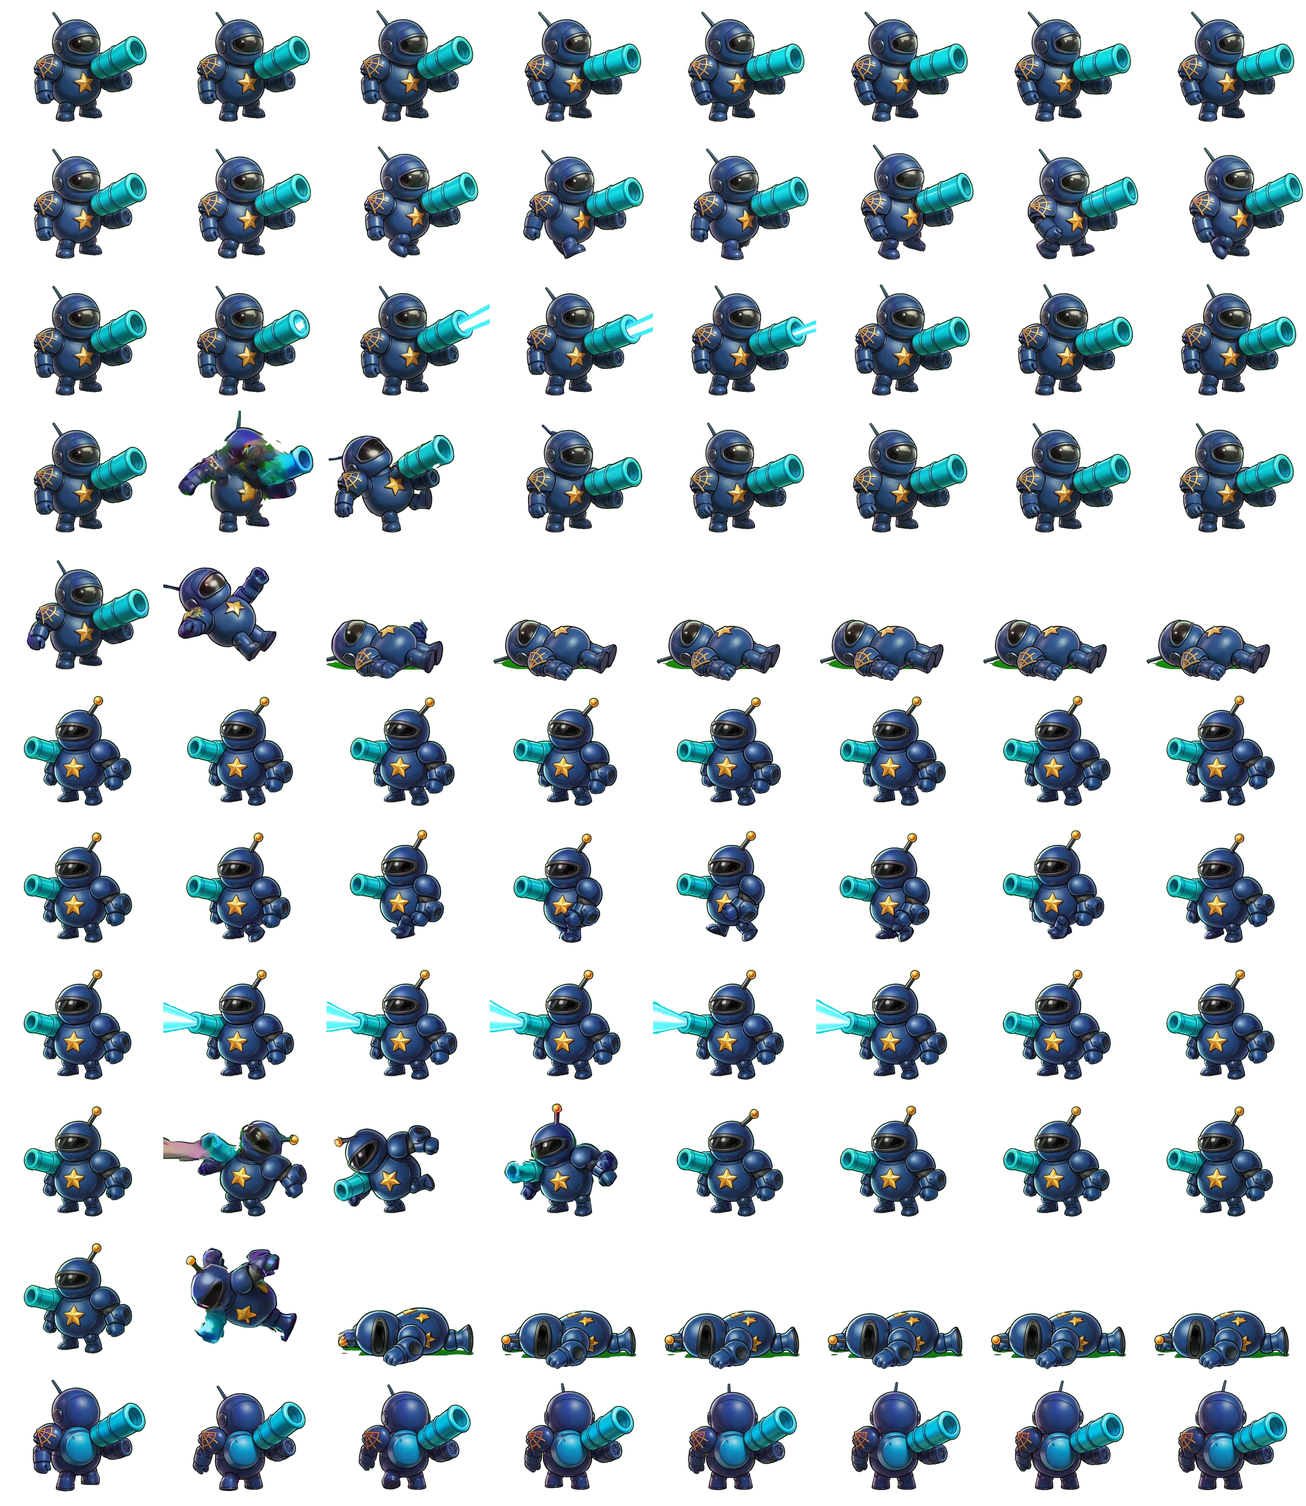
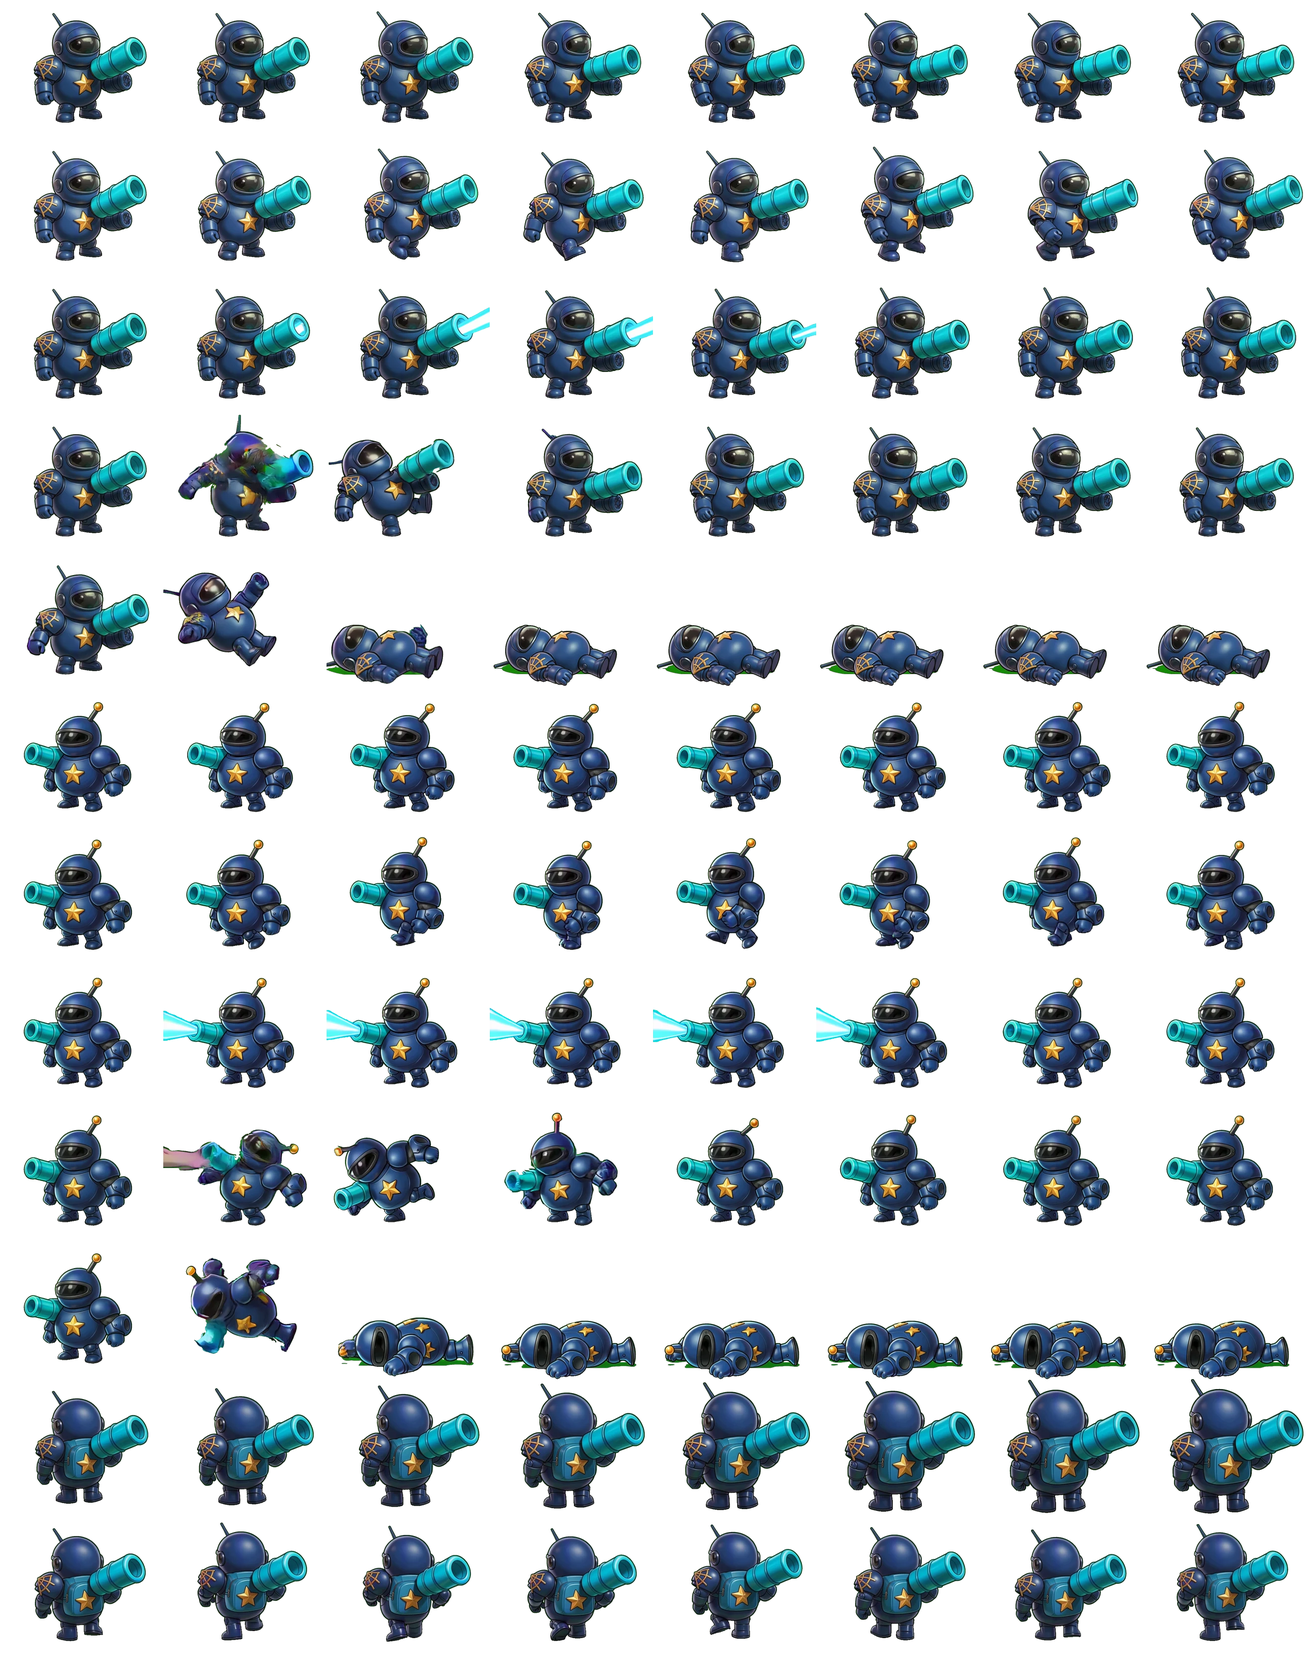
alfa 11c4f47: Rumble arte pintado: humo de la base animal y StarBot de espaldas quieto y andan

diff --git a/alfa/games/rumble/js/pintado/anim.js b/alfa/games/rumble/js/pintado/anim.js
@@ -3,4 +3,4 @@
 // n = fotogramas por animación, alto = píxeles que mide el personaje quieto, pies = [x, y] del apoyo en la celda
 // para cada lado, filas = qué animación es cada fila. animar.js pinta el fotograma que toca.
 'use strict';
-const V2_ANIM = {"bunny":{"celda":[253,242],"n":8,"alto":220,"pies":{"der":[124,233],"izq":[148,229],"esp":[117,236]},"filas":["der-quieto","der-andar","der-atacar","der-golpe","der-morir","izq-quieto","izq-andar","izq-atacar","izq-golpe","izq-morir","esp-quieto","esp-andar","esp-atacar","esp-golpe"]},"squirrel":{"celda":[269,259],"n":8,"alto":220,"pies":{"der":[120,248],"izq":[156,246],"esp":[124,245]},"filas":["der-quieto","der-andar","der-atacar","der-golpe","der-morir","izq-quieto","izq-andar","izq-atacar","izq-golpe","izq-morir","esp-quieto","esp-andar","esp-atacar","esp-golpe"]},"beaver":{"celda":[283,250],"n":8,"alto":220,"pies":{"der":[141,242],"izq":[136,242],"esp":[145,235]},"filas":["der-quieto","der-andar","der-atacar","der-golpe","der-morir","izq-quieto","izq-andar","izq-atacar","izq-golpe","izq-morir","esp-quieto","esp-andar","esp-atacar"]},"meercat":{"celda":[244,253],"n":8,"alto":220,"pies":{"der":[127,244],"izq":[136,245],"esp":[129,243]},"filas":["der-quieto","der-andar","der-atacar","der-golpe","der-morir","izq-quieto","izq-andar","izq-atacar","izq-golpe","izq-morir","esp-quieto","esp-andar","esp-atacar","esp-golpe"]},"junkcoon":{"celda":[275,260],"n":8,"alto":220,"pies":{"der":[135,249],"izq":[144,245],"esp":[134,248]},"filas":["der-quieto","der-andar","der-atacar","der-golpe","der-morir","izq-quieto","izq-andar","izq-atacar","izq-golpe","izq-morir","esp-quieto","esp-andar","esp-atacar","esp-golpe"]},"mechavaca":{"celda":[292,289],"n":8,"alto":220,"pies":{"der":[142,264],"izq":[153,266],"esp":[147,265]},"filas":["der-quieto","der-andar","der-atacar","der-golpe","der-morir","izq-quieto","izq-andar","izq-atacar","izq-golpe","izq-morir","esp-quieto","esp-andar","esp-atacar","esp-golpe"]},"vaca":{"celda":[318,274],"n":8,"alto":220,"pies":{"der":[161,257],"izq":[150,257],"esp":[158,258]},"filas":["der-quieto","der-andar","der-atacar","der-golpe","der-morir","izq-quieto","izq-andar","izq-atacar","izq-golpe","izq-morir","esp-quieto","esp-andar","esp-atacar","esp-golpe"]},"becario":{"celda":[266,260],"n":8,"alto":220,"pies":{"der":[144,242],"izq":[121,242],"esp":[140,242]},"filas":["der-quieto","der-andar","der-atacar","der-golpe","der-morir","izq-quieto","izq-andar","izq-atacar","izq-golpe","izq-morir","esp-quieto","esp-andar","esp-atacar","esp-golpe"]},"fox":{"celda":[282,248],"n":8,"alto":220,"pies":{"der":[122,231],"izq":[155,232]},"filas":["der-quieto","der-andar","der-atacar","der-golpe","der-morir","izq-quieto","izq-andar","izq-atacar","izq-golpe","izq-morir"]},"fallen":{"celda":[290,275],"n":8,"alto":220,"pies":{"der":[145,262],"izq":[133,264],"esp":[159,262]},"filas":["der-quieto","der-andar","der-atacar","der-golpe","der-morir","izq-quieto","izq-andar","izq-atacar","izq-golpe","izq-morir","esp-quieto","esp-andar","esp-atacar","esp-golpe"]},"starbot":{"celda":[328,275],"n":8,"alto":220,"pies":{"der":[181,244],"izq":[156,243],"esp":[179,245]},"filas":["der-quieto","der-andar","der-atacar","der-golpe","der-morir","izq-quieto","izq-andar","izq-atacar","izq-golpe","izq-morir","esp-quieto"]},"cajabotin":{"celda":[289,291],"n":8,"alto":220,"pies":{"der":[149,267],"izq":[153,272],"esp":[155,266]},"filas":["der-quieto","der-andar","der-atacar","der-golpe","der-morir","izq-quieto","izq-andar","izq-atacar","izq-golpe","izq-morir","esp-quieto","esp-andar","esp-atacar","esp-golpe"]},"huron":{"celda":[287,270],"n":8,"alto":220,"pies":{"der":[139,262],"izq":[126,260],"esp":[142,258]},"filas":["der-quieto","der-andar","der-atacar","der-golpe","der-morir","izq-quieto","izq-andar","izq-atacar","izq-golpe","izq-morir","esp-quieto","esp-andar","esp-atacar","esp-golpe"]}};
+const V2_ANIM = {"bunny":{"celda":[253,242],"n":8,"alto":220,"pies":{"der":[124,233],"izq":[148,229],"esp":[117,236]},"filas":["der-quieto","der-andar","der-atacar","der-golpe","der-morir","izq-quieto","izq-andar","izq-atacar","izq-golpe","izq-morir","esp-quieto","esp-andar","esp-atacar","esp-golpe"]},"squirrel":{"celda":[269,259],"n":8,"alto":220,"pies":{"der":[120,248],"izq":[156,246],"esp":[124,245]},"filas":["der-quieto","der-andar","der-atacar","der-golpe","der-morir","izq-quieto","izq-andar","izq-atacar","izq-golpe","izq-morir","esp-quieto","esp-andar","esp-atacar","esp-golpe"]},"beaver":{"celda":[283,250],"n":8,"alto":220,"pies":{"der":[141,242],"izq":[136,242],"esp":[145,235]},"filas":["der-quieto","der-andar","der-atacar","der-golpe","der-morir","izq-quieto","izq-andar","izq-atacar","izq-golpe","izq-morir","esp-quieto","esp-andar","esp-atacar"]},"meercat":{"celda":[244,253],"n":8,"alto":220,"pies":{"der":[127,244],"izq":[136,245],"esp":[129,243]},"filas":["der-quieto","der-andar","der-atacar","der-golpe","der-morir","izq-quieto","izq-andar","izq-atacar","izq-golpe","izq-morir","esp-quieto","esp-andar","esp-atacar","esp-golpe"]},"junkcoon":{"celda":[275,260],"n":8,"alto":220,"pies":{"der":[135,249],"izq":[144,245],"esp":[134,248]},"filas":["der-quieto","der-andar","der-atacar","der-golpe","der-morir","izq-quieto","izq-andar","izq-atacar","izq-golpe","izq-morir","esp-quieto","esp-andar","esp-atacar","esp-golpe"]},"mechavaca":{"celda":[292,289],"n":8,"alto":220,"pies":{"der":[142,264],"izq":[153,266],"esp":[147,265]},"filas":["der-quieto","der-andar","der-atacar","der-golpe","der-morir","izq-quieto","izq-andar","izq-atacar","izq-golpe","izq-morir","esp-quieto","esp-andar","esp-atacar","esp-golpe"]},"vaca":{"celda":[318,274],"n":8,"alto":220,"pies":{"der":[161,257],"izq":[150,257],"esp":[158,258]},"filas":["der-quieto","der-andar","der-atacar","der-golpe","der-morir","izq-quieto","izq-andar","izq-atacar","izq-golpe","izq-morir","esp-quieto","esp-andar","esp-atacar","esp-golpe"]},"becario":{"celda":[266,260],"n":8,"alto":220,"pies":{"der":[144,242],"izq":[121,242],"esp":[140,242]},"filas":["der-quieto","der-andar","der-atacar","der-golpe","der-morir","izq-quieto","izq-andar","izq-atacar","izq-golpe","izq-morir","esp-quieto","esp-andar","esp-atacar","esp-golpe"]},"fox":{"celda":[282,248],"n":8,"alto":220,"pies":{"der":[122,231],"izq":[155,232]},"filas":["der-quieto","der-andar","der-atacar","der-golpe","der-morir","izq-quieto","izq-andar","izq-atacar","izq-golpe","izq-morir"]},"fallen":{"celda":[290,275],"n":8,"alto":220,"pies":{"der":[145,262],"izq":[133,264],"esp":[159,262]},"filas":["der-quieto","der-andar","der-atacar","der-golpe","der-morir","izq-quieto","izq-andar","izq-atacar","izq-golpe","izq-morir","esp-quieto","esp-andar","esp-atacar","esp-golpe"]},"starbot":{"celda":[328,277],"n":8,"alto":220,"pies":{"der":[181,246],"izq":[156,246],"esp":[185,250]},"filas":["der-quieto","der-andar","der-atacar","der-golpe","der-morir","izq-quieto","izq-andar","izq-atacar","izq-golpe","izq-morir","esp-quieto","esp-andar"]},"cajabotin":{"celda":[289,291],"n":8,"alto":220,"pies":{"der":[149,267],"izq":[153,272],"esp":[155,266]},"filas":["der-quieto","der-andar","der-atacar","der-golpe","der-morir","izq-quieto","izq-andar","izq-atacar","izq-golpe","izq-morir","esp-quieto","esp-andar","esp-atacar","esp-golpe"]},"huron":{"celda":[287,270],"n":8,"alto":220,"pies":{"der":[139,262],"izq":[126,260],"esp":[142,258]},"filas":["der-quieto","der-andar","der-atacar","der-golpe","der-morir","izq-quieto","izq-andar","izq-atacar","izq-golpe","izq-morir","esp-quieto","esp-andar","esp-atacar","esp-golpe"]}};

diff --git a/alfa/index.html b/alfa/index.html
@@ -12,10 +12,10 @@
 <link rel="preconnect" href="https://fonts.googleapis.com">
 <link rel="preconnect" href="https://fonts.gstatic.com" crossorigin>
 <link rel="stylesheet" href="https://fonts.googleapis.com/css2?family=Baloo+2:wght@600;700;800&family=Luckiest+Guy&display=swap">
-<link rel="stylesheet" href="core/css/base.css?v=5e573d9">
-<link rel="stylesheet" href="biblioteca/tienda.css?v=5e573d9">
-<link rel="stylesheet" href="novedades/ventana.css?v=5e573d9">
-<link rel="stylesheet" href="biblioteca/votos.css?v=5e573d9">
+<link rel="stylesheet" href="core/css/base.css?v=11c4f47">
+<link rel="stylesheet" href="biblioteca/tienda.css?v=11c4f47">
+<link rel="stylesheet" href="novedades/ventana.css?v=11c4f47">
+<link rel="stylesheet" href="biblioteca/votos.css?v=11c4f47">
 <style>
   /* la entrada de la web: una tarjeta por juego, con los colores y las letras de core */
   body { overflow: auto; touch-action: auto; align-items: flex-start; background-repeat: no-repeat; background-attachment: fixed; }
@@ -63,7 +63,7 @@
 </style>
 </head>
 <body>
-<script src="menu.js?v=5e573d9" data-base="" data-core="1" data-pagina=""></script>
+<script src="menu.js?v=11c4f47" data-base="" data-core="1" data-pagina=""></script>
 <div class="nov-fondo" id="novedades" hidden>
   <div class="nov-caja" role="dialog" aria-modal="true" aria-labelledby="nov-titulo">
     <div class="nov-cabeza"><h2 class="ol" id="nov-titulo">NOVEDADES</h2><p id="nov-sub"></p></div>
@@ -379,8 +379,8 @@
   </section>
   <p class="note" id="pie-fansof">Fans Of™ · © 2026 Arkioner y Pepins · MicroBlizz · Todos los derechos reservados</p>
 </main>
-<script src="core/js/nucleo.js?v=0-a1131.5e573d9"></script>
-<script src="core/js/novedades.js?v=5e573d9"></script>
+<script src="core/js/nucleo.js?v=0-a1132.11c4f47"></script>
+<script src="core/js/novedades.js?v=11c4f47"></script>
 <script>
 // La cuenta de la web es la misma de los juegos (core/js/sistema/cuenta.js, mismo navegador = misma sesión). Aquí no hay partida que subir.
 const AJUSTES = { id: 'web', guardado: 'fansof-web' }, SAVE_KEY = AJUSTES.guardado, SAVE = {};
@@ -389,7 +389,7 @@ const HOOKS = {};
 function hook(name, fn) { (HOOKS[name] = HOOKS[name] || []).push(fn); }
 function fire(name, ...a) { let out = ''; for (const fn of HOOKS[name] || []) { const r = fn(...a); if (typeof r === 'string') out += r; } return out; }
 </script>
-<script src="core/js/sistema/cuenta.js?v=5e573d9"></script>
+<script src="core/js/sistema/cuenta.js?v=11c4f47"></script>
 <script>NUCLEO.idiomaSolo({ en: ['core/idioma/en-raiz.js', 'novedades/en.js', 'biblioteca/en.js','games/rumble/idioma/en-7.js', 'games/td/idioma/en-2.js', 'games/survivors/idioma/en.js', 'games/crush/idioma/en-raiz.js', 'games/jump/idioma/en-raiz.js', 'games/taxi/idioma/en-raiz.js', 'games/dark/idioma/en-raiz.js', 'games/nova/idioma/en-raiz.js', 'games/nova/idioma/en-raiz-2.js', 'demos/beams/idioma/en-raiz.js', 'demos/snakes/idioma/en-raiz.js', 'demos/merge/idioma/en-raiz.js', 'demos/swipe/idioma/en-raiz.js', 'demos/pop/idioma/en-raiz.js', 'demos/panic/idioma/en-raiz.js', 'demos/vikings/idioma/en-raiz.js', 'demos/goose/idioma/en-raiz.js', 'demos/asalto/idioma/en-raiz.js', 'demos/auto/idioma/en-raiz.js', 'demos/shelter/idioma/en-raiz.js', 'demos/soccer/idioma/en-raiz.js', 'demos/air/idioma/en-raiz.js', 'demos/basement/idioma/en-raiz.js', 'demos/zombies/idioma/en-raiz.js', 'games/island/idioma/en-raiz.js', 'demos/rumble-3d/idioma/en-raiz.js', 'demos/roguelite/idioma/en-raiz.js', 'demos/tactics-advance/idioma/en-raiz.js', 'games/rouflage/idioma/en-raiz.js', 'demos/dungeons/idioma/en-raiz.js', 'games/karts/idioma/en-raiz.js', 'demos/recruit/idioma/en-raiz.js', 'demos/terminal-shock/idioma/en-raiz.js', 'games/ratkov/idioma/en-raiz.js'] })</script>
 <script>
 // La versión y las novedades salen de los archivos de cada juego, así que esta página nunca se queda atrás.
@@ -415,14 +415,14 @@ const fail = id => () => {
 };
 
 </script>
-<script src="core/js/proximamente.js?v=5e573d9"></script>
-<script src="novedades/ventana.js?v=5e573d9"></script>
-<script src="biblioteca/tienda.js?v=5e573d9"></script>
-<script src="core/js/sistema/beta.js?v=5e573d9"></script>
-<script src="biblioteca/cuenta-web.js?v=5e573d9"></script>
-<script src="biblioteca/votos.js?v=5e573d9"></script>
-<script src="biblioteca/alfa.js?v=5e573d9"></script>
-<script src="core/js/sistema/analitica.js?v=5e573d9"></script>
-<script src="pie.js?v=5e573d9" defer></script>
+<script src="core/js/proximamente.js?v=11c4f47"></script>
+<script src="novedades/ventana.js?v=11c4f47"></script>
+<script src="biblioteca/tienda.js?v=11c4f47"></script>
+<script src="core/js/sistema/beta.js?v=11c4f47"></script>
+<script src="biblioteca/cuenta-web.js?v=11c4f47"></script>
+<script src="biblioteca/votos.js?v=11c4f47"></script>
+<script src="biblioteca/alfa.js?v=11c4f47"></script>
+<script src="core/js/sistema/analitica.js?v=11c4f47"></script>
+<script src="pie.js?v=11c4f47" defer></script>
 </body>
 </html>

diff --git a/alfa/games/rouflage/index.html b/alfa/games/rouflage/index.html
@@ -10,7 +10,7 @@
 <link rel="preconnect" href="https://fonts.googleapis.com">
 <link rel="preconnect" href="https://fonts.gstatic.com" crossorigin>
 <link rel="stylesheet" href="https://fonts.googleapis.com/css2?family=Baloo+2:wght@600;700;800&family=Luckiest+Guy&display=swap">
-<script src="../../core/js/nucleo.js?v=0.2.75-a1131.5e573d9"></script>
+<script src="../../core/js/nucleo.js?v=0.2.75-a1132.11c4f47"></script>
 <script>NUCLEO.estilos('../../core/css/base.css', '../../core/css/menus.css', '../../core/css/menus-extra.css')</script>
 <script>NUCLEO.estilos('estilo.css', 'estilo-taller.css', 'estilo-pantallas.css', 'estilo-pvp.css', 'estilo-armario.css', 'estilo-menus.css', 'estilo-misiones.css', 'estilo-escenario.css', 'estilo-votos.css', 'estilo-gacha.css', 'estilo-compra.css', 'estilo-fin.css', 'estilo-talentos.css', 'estilo-chat.css', 'estilo-titulo.css', 'estilo-tienda.css', 'estilo-barras.css', 'estilo-tarjetas.css', 'estilo-barra.css', 'estilo-sala-viva.css', 'estilo-obra.css', 'estilo-ayuda.css', 'estilo-pintura.css', 'estilo-carga.css')</script>      <!-- la intro, la última: pisa el #carga de estilo.css (antes iba en línea dentro de #carga) -->
 </head>

diff --git a/alfa/demos/rumble-clasico/index.html b/alfa/demos/rumble-clasico/index.html
@@ -18,7 +18,7 @@
 <!-- core/js/nucleo.js carga lo común y el juego. LA VERSIÓN SE ESCRIBE SOLO AQUÍ, en su ?v= -->
 <!-- GENERADO por herramientas/rumble_v2.py desde games/rumble/index.html: no editar a mano -->
 <script>try { const u = new URL(location.href); if (u.searchParams.get('nube') !== '0') { u.searchParams.set('nube', '0'); history.replaceState(null, '', u); } } catch (e) { /* sin dirección */ }</script>
-<script src="../../core/js/nucleo.js?v=0.9.167-a1131.5e573d9"></script>
+<script src="../../core/js/nucleo.js?v=0.9.167-a1132.11c4f47"></script>
 <script>NUCLEO.estilos('../../core/css/menus.css', '../../games/rumble/css/estilos-partida.css', '../../games/rumble/css/estilos-extra.css', '../../games/rumble/css/arena.css', '../../core/css/biblioteca.css', '../../games/rumble/css/facciones-y-jefes.css', '../../core/css/clasificacion.css', '../../games/rumble/css/frases.css', '../../games/rumble/css/mitica.css', '../../games/rumble/css/paletas.css')</script>
 
 </head>

diff --git a/alfa/demos/rumble-v2/index.html b/alfa/demos/rumble-v2/index.html
@@ -18,7 +18,7 @@
 <!-- core/js/nucleo.js carga lo común y el juego. LA VERSIÓN SE ESCRIBE SOLO AQUÍ, en su ?v= -->
 <!-- GENERADO por herramientas/rumble_v2.py desde games/rumble/index.html: no editar a mano -->
 <script>try { const u = new URL(location.href); if (u.searchParams.get('nube') !== '0') { u.searchParams.set('nube', '0'); history.replaceState(null, '', u); } } catch (e) { /* sin dirección */ }</script>
-<script src="../../core/js/nucleo.js?v=0.9.167-a1131.5e573d9"></script>
+<script src="../../core/js/nucleo.js?v=0.9.167-a1132.11c4f47"></script>
 <script>NUCLEO.estilos('../../core/css/menus.css', '../../games/rumble/css/estilos-partida.css', '../../games/rumble/css/estilos-extra.css', '../../games/rumble/css/arena.css', '../../core/css/biblioteca.css', '../../games/rumble/css/facciones-y-jefes.css', '../../core/css/clasificacion.css', '../../games/rumble/css/frases.css', '../../games/rumble/css/mitica.css', '../../games/rumble/css/paletas.css')</script>
 
 </head>

diff --git a/alfa/games/karts/index.html b/alfa/games/karts/index.html
@@ -8,7 +8,7 @@
 <meta name="description" content="Fans of Karts (juego): carreras de karts en pixel art de consola portátil con los líderes de Fans of Rumble. Tres pistas, seis pilotos, objetos con mala idea y Microblizz, que ha comprado la carrera.">
 <link rel="icon" type="image/png" href="img/favicon.png">
 <link rel="apple-touch-icon" href="img/icon-192.png">
-<script src="../../core/js/nucleo.js?v=0.7.25-a1131.5e573d9"></script>
+<script src="../../core/js/nucleo.js?v=0.7.25-a1132.11c4f47"></script>
 <script>NUCLEO.estilos('../../core/css/base.css', '../../core/css/menus.css', '../../core/css/menus-tienda.css', '../../core/css/menus-extra.css', 'css/tienda.css', 'css/pvp.css')</script>
 <link rel="stylesheet" href="https://fonts.googleapis.com/css2?family=Baloo+2:wght@600;700;800&family=Luckiest+Guy&display=swap">
 <style>

diff --git a/alfa/games/rumble/js/pintado/derrumbe-datos.js b/alfa/games/rumble/js/pintado/derrumbe-datos.js
@@ -3,4 +3,4 @@
 // caja0 = [x, y, ancho, alto] del edificio entero en el primero, humo = fotogramas del humo de las ruinas
 // (<clave>-humo.webp, misma celda). derrumbe.js lo pinta encima del sitio del edificio.
 'use strict';
-const V2_DERRUMBE = {"p_tower":{"celda":[440,439],"n":12,"caja0":[90,43,254,360],"humo":12},"p_base":{"celda":[453,410],"n":12,"caja0":[54,0,351,360]},"e_tower":{"celda":[447,422],"n":12,"caja0":[106,27,182,360]},"e_base":{"celda":[446,393],"n":12,"caja0":[88,0,270,360]}};
+const V2_DERRUMBE = {"p_tower":{"celda":[440,439],"n":12,"caja0":[90,43,254,360],"humo":12},"p_base":{"celda":[453,453],"n":12,"caja0":[54,43,351,360],"humo":12},"e_tower":{"celda":[447,422],"n":12,"caja0":[106,27,182,360]},"e_base":{"celda":[446,393],"n":12,"caja0":[88,0,270,360]}};

diff --git a/alfa/games/dark/index.html b/alfa/games/dark/index.html
@@ -12,7 +12,7 @@
 <link rel="stylesheet" href="https://fonts.googleapis.com/css2?family=Baloo+2:wght@600;700;800&family=Luckiest+Guy&family=Press+Start+2P&family=Pixelify+Sans:wght@400;600;700&display=swap">
 <link rel="stylesheet" href="css/dark.css?v=0.2.4">
 <!-- Prototipo: no usa NUCLEO (tiene su propia partida guardada). Carga de core el arte, la música, los efectos y las cifras del Rumble.
-     VERSIÓN para desplegar.py (que la busca así): nucleo.js?v=0.2.7-a1131.5e573d9' (aquí solo se anota; súbela junto al ?v= de los scripts). -->
+     VERSIÓN para desplegar.py (que la busca así): nucleo.js?v=0.2.7-a1132.11c4f47' (aquí solo se anota; súbela junto al ?v= de los scripts). -->
 </head>
 <body>
 <canvas id="cv" aria-label="Mazmorra"></canvas>

diff --git a/alfa/games/rumble/index.html b/alfa/games/rumble/index.html
@@ -16,7 +16,7 @@
 <link rel="preconnect" href="https://fonts.gstatic.com" crossorigin>
 <link rel="stylesheet" href="https://fonts.googleapis.com/css2?family=Baloo+2:wght@600;700;800&family=Luckiest+Guy&display=swap">
 <!-- core/js/nucleo.js carga lo común y el juego. LA VERSIÓN SE ESCRIBE SOLO AQUÍ, en su ?v= -->
-<script src="../../core/js/nucleo.js?v=0.9.168-a1131.5e573d9"></script>
+<script src="../../core/js/nucleo.js?v=0.9.168-a1132.11c4f47"></script>
 <script>NUCLEO.estilos('../../core/css/menus.css', 'css/estilos-partida.css', 'css/estilos-extra.css', 'css/arena.css', '../../core/css/biblioteca.css', 'css/facciones-y-jefes.css', '../../core/css/clasificacion.css', 'css/frases.css', 'css/mitica.css', 'css/paletas.css')</script>
 
 </head>

diff --git a/alfa/games/jump/index.html b/alfa/games/jump/index.html
@@ -12,7 +12,7 @@
 <link rel="preconnect" href="https://fonts.gstatic.com" crossorigin>
 <link rel="stylesheet" href="https://fonts.googleapis.com/css2?family=Baloo+2:wght@600;700;800&family=Luckiest+Guy&display=swap">
 <!-- ?v= es la versión del juego (la misma en la web y en la app): súbela al publicar y pon su entrada en js/novedades.js -->
-<script src="../../core/js/nucleo.js?v=0.3.26-a1131.5e573d9"></script>
+<script src="../../core/js/nucleo.js?v=0.3.26-a1132.11c4f47"></script>
 <script>NUCLEO.estilos('../../core/css/base.css', '../../core/css/menus.css')</script>
 <style>
 /* Fans of Jump: un solo canvas a la resolución real de la pantalla, con los dibujos 3D. El mundo mide unos 200 de ancho y se

diff --git a/alfa/games/decks/index.html b/alfa/games/decks/index.html
@@ -15,7 +15,7 @@
 <link rel="preconnect" href="https://fonts.gstatic.com" crossorigin>
 <link rel="stylesheet" href="https://fonts.googleapis.com/css2?family=Baloo+2:wght@600;700;800&family=Luckiest+Guy&display=swap">
 <!-- core/js/nucleo.js carga lo común y el juego. LA VERSIÓN SE ESCRIBE SOLO AQUÍ, en su ?v= -->
-<script src="../../core/js/nucleo.js?v=0.2.31-a1131.5e573d9"></script>
+<script src="../../core/js/nucleo.js?v=0.2.31-a1132.11c4f47"></script>
 <script>NUCLEO.estilos('../../core/css/base.css', '../../core/css/menus.css', 'css/decks.css', 'css/decks-reunion.css', 'css/decks-anim.css', 'css/decks-campana.css', 'css/decks-lideres.css')</script>
 </head>
 <body>

diff --git a/alfa/demos/zombies/index.html b/alfa/demos/zombies/index.html
@@ -11,7 +11,7 @@
 <link rel="stylesheet" href="https://fonts.googleapis.com/css2?family=VT323&family=Russo+One&family=Permanent+Marker&family=Special+Elite&display=swap">
 <script src="https://cdnjs.cloudflare.com/ajax/libs/three.js/r128/three.min.js"></script>
 <!-- ?v= es la versión de la demo: súbela al publicar -->
-<script src="../../core/js/nucleo.js?v=0.14.1-a1131.5e573d9"></script>
+<script src="../../core/js/nucleo.js?v=0.14.1-a1132.11c4f47"></script>
 <script>NUCLEO.estilos('../../core/css/base.css', '../../core/css/menus.css')</script>
 <link rel="stylesheet" href="estilo.css?v=0.14.1">
 <link rel="stylesheet" href="estilo-menus.css?v=0.14.1">
